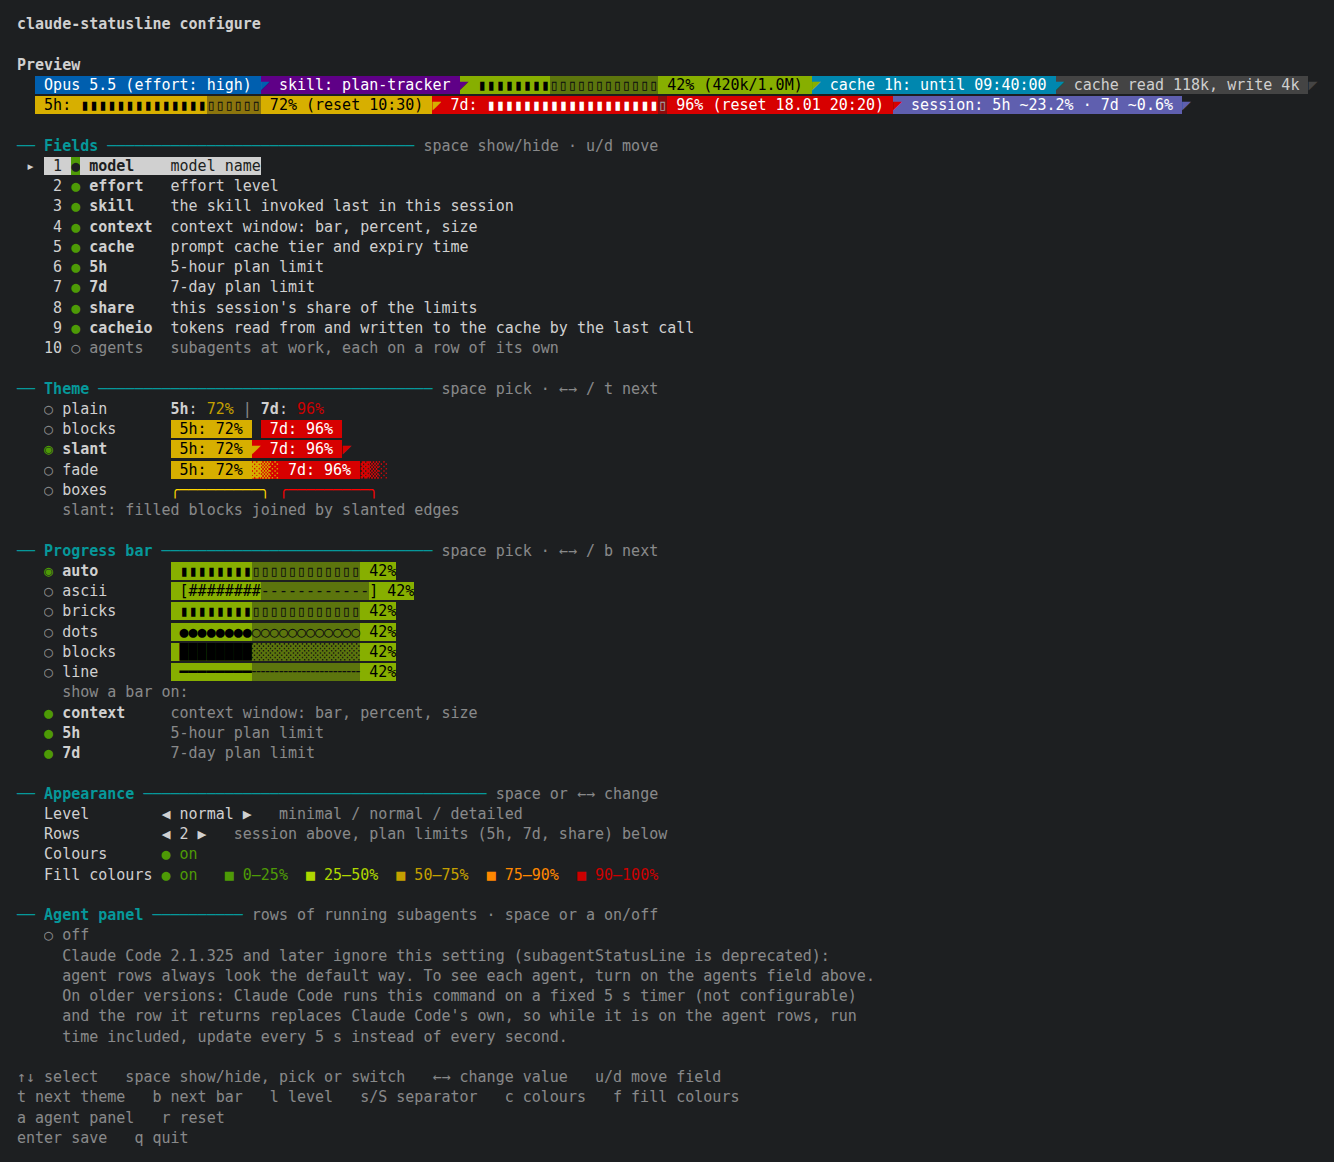
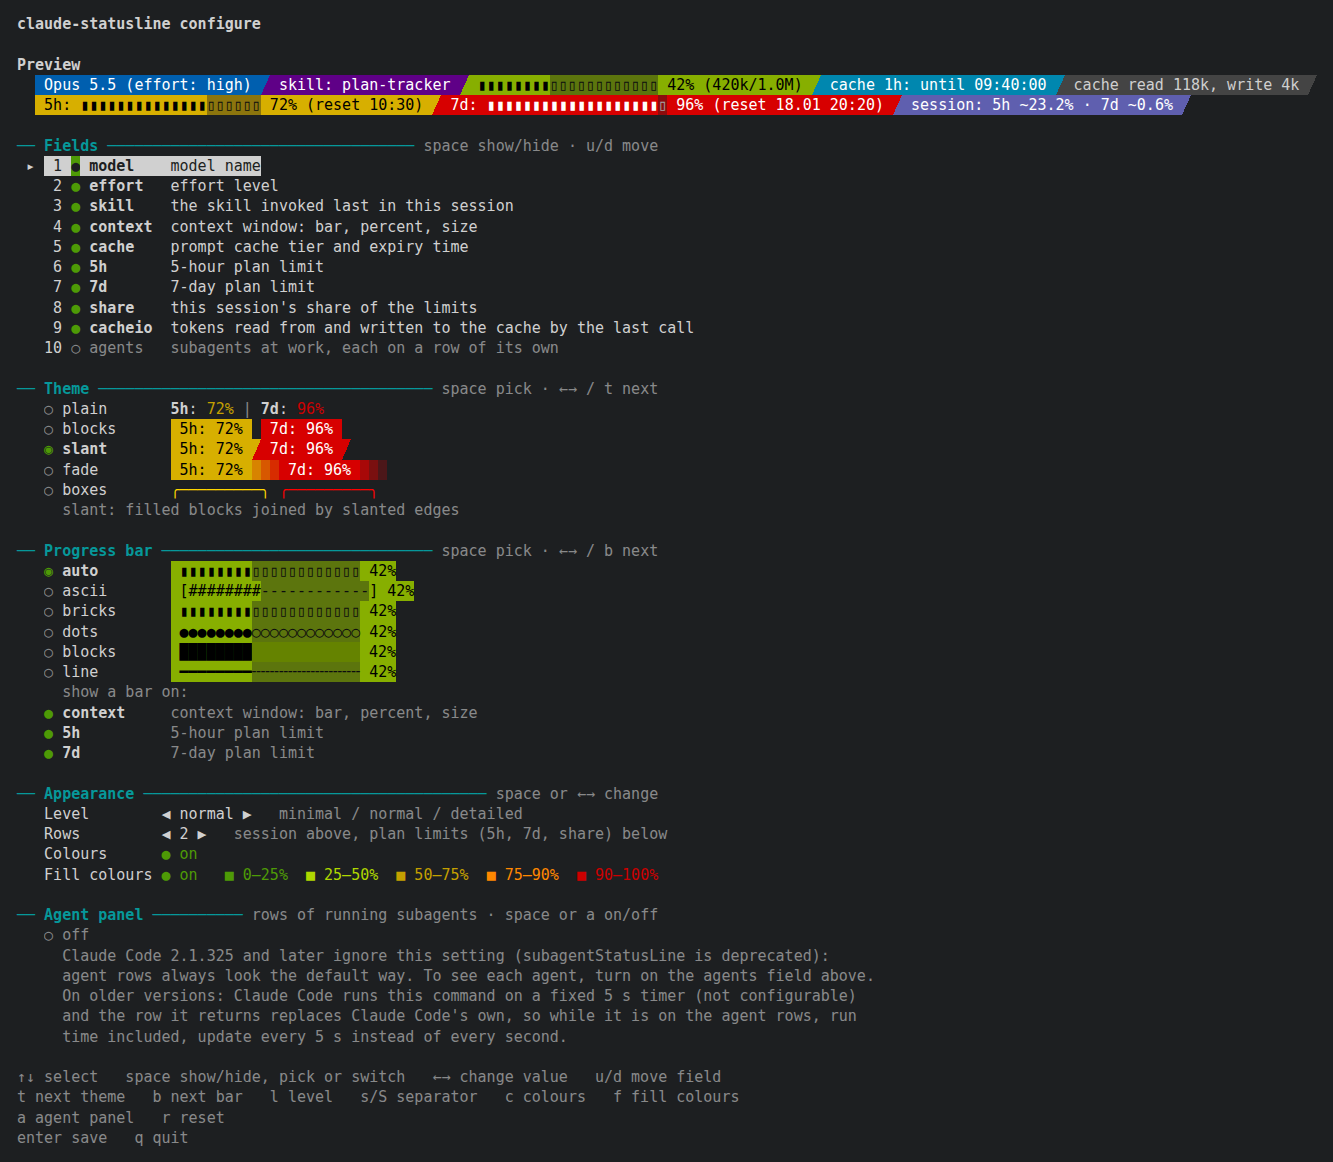
README screenshots drawn as a terminal draws them
scripts/screenshots.py regenerates docs/images/ from the preview: the slant
and fade glyphs fill their whole cell, as in a terminal.

diff --git a/scripts/screenshots.py b/scripts/screenshots.py
@@ -1,0 +1,135 @@
+"""Regenerate the README screenshots in docs/images/ from the built-in preview.
+
+    python3 scripts/screenshots.py
+
+Renders the default status line (with the agents rows) and the configurator to ANSI, turns that
+into HTML the way a terminal draws it (◤ and ▓▒░ fill the whole cell), shoots it with headless
+Chrome (google-chrome or chromium) and crops the background off with Pillow.
+"""
+import html
+import os
+import re
+import shutil
+import subprocess
+import sys
+import tempfile
+
+BASE = ["#2e3436", "#cc0000", "#4e9a06", "#c4a000", "#3465a4", "#75507b", "#06989a", "#d3d7cf",
+        "#555753", "#ef2929", "#8ae234", "#fce94f", "#729fcf", "#ad7fa8", "#34e2e2", "#eeeeec"]
+
+def c256(n):
+    if n < 16:
+        return BASE[n]
+    if n < 232:
+        n -= 16
+        steps = [0, 95, 135, 175, 215, 255]
+        return "#%02x%02x%02x" % (steps[n // 36], steps[(n // 6) % 6], steps[n % 6])
+    v = 8 + (n - 232) * 10
+    return "#%02x%02x%02x" % (v, v, v)
+
+FG, BG = "#d0d0d0", "#1d1f21"
+
+def mix(a, b, t):
+    a = [int(a[i:i + 2], 16) for i in (1, 3, 5)]; b = [int(b[i:i + 2], 16) for i in (1, 3, 5)]
+    return "#%02x%02x%02x" % tuple(round(x * t + y * (1 - t)) for x, y in zip(a, b))
+
+SHADES = {"\u2591": .25, "\u2592": .5, "\u2593": .75}
+CELL = "display:inline-block;height:1.35em;line-height:1.35em;vertical-align:top;"
+
+def convert(text):
+    out = []
+    state = {}
+    def span(t):
+        if not t:
+            return
+        fg = state.get("fg", FG); bg = state.get("bg")
+        if state.get("rev"):
+            fg, bg = (bg or BG), fg
+        style = CELL + f"color:{fg};"
+        if bg: style += f"background:{bg};"
+        if state.get("bold"): style += "font-weight:bold;"
+        if state.get("dim"): style += "opacity:.6;"
+        if state.get("it"): style += "font-style:italic;"
+        # Terminals draw these glyphs over the whole cell; fonts in a browser do not.
+        cell_bg = bg or BG
+        for part in re.split("([\u25e4\u2591\u2592\u2593\n])", t):
+            if not part:
+                continue
+            if part == "\n":
+                out.append("\n")
+            elif part == "\u25e4":
+                out.append(f'<span style="{CELL}width:1ch;background:linear-gradient(to bottom right,{fg} 50%,{cell_bg} 50%)"></span>')
+            elif part in SHADES:
+                out.append(f'<span style="{CELL}width:1ch;background:{mix(fg, cell_bg, SHADES[part])}"></span>')
+            else:
+                out.append(f'<span style="{style}">{html.escape(part)}</span>')
+    pos = 0
+    for m in re.finditer(r"\033\[([0-9;]*)m", text):
+        span(text[pos:m.start()]); pos = m.end()
+        codes = [int(c) if c else 0 for c in m.group(1).split(";")]
+        i = 0
+        while i < len(codes):
+            c = codes[i]
+            if c == 0: state.clear()
+            elif c == 1: state["bold"] = 1
+            elif c == 2: state["dim"] = 1
+            elif c == 3: state["it"] = 1
+            elif c == 7: state["rev"] = 1
+            elif c == 22: state.pop("bold", None); state.pop("dim", None)
+            elif c == 27: state.pop("rev", None)
+            elif 30 <= c <= 37: state["fg"] = BASE[c - 30]
+            elif 90 <= c <= 97: state["fg"] = BASE[c - 82]
+            elif 40 <= c <= 47: state["bg"] = BASE[c - 40]
+            elif c == 39: state.pop("fg", None)
+            elif c == 49: state.pop("bg", None)
+            elif c in (38, 48) and i + 2 < len(codes) and codes[i + 1] == 5:
+                state["fg" if c == 38 else "bg"] = c256(codes[i + 2]); i += 2
+            i += 1
+    span(text[pos:])
+    return "".join(out)
+
+
+
+def page(text):
+    return f'''<!DOCTYPE html><html><head><meta charset="utf-8"><style>
+body{{margin:0;background:{BG};}}
+pre{{margin:0;padding:14px 18px;font:15px/1.35 "DejaVu Sans Mono",monospace;color:{FG};display:inline-block;}}
+</style></head><body><pre>{convert(text.rstrip(chr(10)))}</pre></body></html>'''
+
+
+def shoot(text, out):
+    from PIL import Image, ImageChops
+    chrome = shutil.which("google-chrome") or shutil.which("chromium") or shutil.which("chromium-browser")
+    if not chrome:
+        sys.exit("needs google-chrome or chromium")
+    with tempfile.TemporaryDirectory() as tmp:
+        html_path, raw = os.path.join(tmp, "page.html"), os.path.join(tmp, "raw.png")
+        with open(html_path, "w", encoding="utf-8") as fh:
+            fh.write(page(text))
+        subprocess.run([chrome, "--headless=new", "--disable-gpu", "--hide-scrollbars",
+                        "--force-device-scale-factor=1", "--window-size=1700,1400",
+                        f"--screenshot={raw}", f"file://{html_path}"],
+                       check=True, capture_output=True)
+        im = Image.open(raw).convert("RGB")
+    bg = tuple(int(BG[i:i + 2], 16) for i in (1, 3, 5))
+    box = ImageChops.difference(im, Image.new("RGB", im.size, bg)).getbbox()
+    pad = 16
+    im.crop((max(0, box[0] - pad), max(0, box[1] - pad), min(im.width, box[2] + pad),
+             min(im.height, box[3] + pad))).save(out, optimize=True)
+    print(out)
+
+
+def main():
+    root = os.path.dirname(os.path.dirname(os.path.abspath(__file__)))
+    sys.path.insert(0, root)
+    from claude_statusline.config import DEFAULT_FIELDS, Config
+    from claude_statusline.configure import Editor
+    from claude_statusline.render import preview
+    images = os.path.join(root, "docs", "images")
+    os.makedirs(images, exist_ok=True)
+    shoot(preview(Config(fields=DEFAULT_FIELDS + ["agents"])), os.path.join(images, "statusline.png"))
+    shoot("\n".join(Editor(Config()).screen(100)), os.path.join(images, "configure.png"))
+
+
+if __name__ == "__main__":
+    main()
